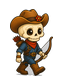
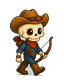
Clear opaque bow-triangle fill on skeleton sprites.
Cutout left enclosed gray plates between bow limbs and string; clear those gaps on base frames, re-tint crystal variants, and bump content to 1.8.5.

Changed region(s): [[0.6562, 0.525, 0.7812, 0.65], [0.5312, 0.675, 0.625, 0.75]]

diff --git a/tools/fix_cave_visuals.py b/tools/fix_cave_visuals.py
@@ -1,5 +1,5 @@
 #!/usr/bin/env python3
-"""Fix cave biome cutouts, strip slicing, ladder matte, and procedural fillers."""
+"""Fix cave biome cutouts, strip slicing, ladder matte, bow gaps, and procedural fillers."""
 
 from __future__ import annotations
 
@@ -501,6 +501,207 @@ def fix_bats() -> None:
         print(f"cave_bat_{i}: clear%={_clear_pct(framed):.1f}")
 
 
+
+def _is_bow_fill_candidate(r: int, g: int, b: int, a: int) -> bool:
+    """Light gray/white or crystal-lavender opaque fill between bow and string."""
+    if a < 180:
+        return False
+    lo, hi = min(r, g, b), max(r, g, b)
+    # Gray / near-white plate left by cutout inside the bow triangle.
+    if lo >= 165 and (hi - lo) <= 45:
+        return True
+    # Magenta-tinted crystal fill (g dropped by tint; not warm ivory bone).
+    if (
+        r >= 150
+        and b >= 150
+        and 100 <= g <= 180
+        and (r - g) >= 25
+        and (b - g) >= 25
+        and (hi - lo) <= 95
+    ):
+        return True
+    return False
+
+
+def _is_bow_wood_pixel(r: int, g: int, b: int, a: int) -> bool:
+    if a < 100:
+        return False
+    return r > g and r > b and 80 <= r <= 180 and 40 <= g <= 120
+
+
+def _is_bowstring_pixel(r: int, g: int, b: int, a: int) -> bool:
+    if a < 100:
+        return False
+    return min(r, g, b) >= 200 and (max(r, g, b) - min(r, g, b)) <= 35
+
+
+def _region_near_bow(px, w: int, h: int, cells: list[tuple[int, int]], *, radius: int = 3) -> bool:
+    for x, y in cells:
+        for dy in range(-radius, radius + 1):
+            for dx in range(-radius, radius + 1):
+                nx, ny = x + dx, y + dy
+                if not (0 <= nx < w and 0 <= ny < h):
+                    continue
+                r, g, b, a = px[nx, ny]
+                if _is_bow_wood_pixel(r, g, b, a) or _is_bowstring_pixel(r, g, b, a):
+                    return True
+    return False
+
+
+def count_skeleton_bow_fill_candidates(
+    im: Image.Image,
+    *,
+    right_half_only: bool = True,
+    bow_band_only: bool = False,
+) -> int:
+    """Count opaque light fill candidates (optionally right half / mid-body bow band)."""
+    rgba = im.convert("RGBA")
+    px = rgba.load()
+    w, h = rgba.size
+    x0 = w // 2 if right_half_only else 0
+    y0, y1 = (int(h * 0.30), int(h * 0.72)) if bow_band_only else (0, h)
+    n = 0
+    for y in range(y0, y1):
+        for x in range(x0, w):
+            if _is_bow_fill_candidate(*px[x, y]):
+                n += 1
+    return n
+
+
+def clear_skeleton_bow_gaps(im: Image.Image) -> tuple[Image.Image, int]:
+    """Clear small enclosed light fill between wooden bow limbs and bowstring.
+
+    Cutout leaves gray/white (or crystal-lavender) plates that are not
+    border-connected. Only clears compact regions next to bow wood/string,
+    never skull/eye interiors or foot bone blobs.
+    Returns (image, cleared_pixel_count).
+    """
+    out = im.convert("RGBA").copy()
+    px = out.load()
+    w, h = out.size
+    visited: set[tuple[int, int]] = set()
+    to_clear: list[tuple[int, int]] = []
+    cleared_bbox: list[int] | None = None  # x0,y0,x1,y1
+
+    for y in range(h):
+        for x in range(w):
+            if (x, y) in visited:
+                continue
+            if not _is_bow_fill_candidate(*px[x, y]):
+                continue
+            q = deque([(x, y)])
+            visited.add((x, y))
+            cells: list[tuple[int, int]] = []
+            while q:
+                cx, cy = q.popleft()
+                cells.append((cx, cy))
+                for nx, ny in ((cx + 1, cy), (cx - 1, cy), (cx, cy + 1), (cx, cy - 1)):
+                    if not (0 <= nx < w and 0 <= ny < h) or (nx, ny) in visited:
+                        continue
+                    if _is_bow_fill_candidate(*px[nx, ny]):
+                        visited.add((nx, ny))
+                        q.append((nx, ny))
+            area = len(cells)
+            if area < 2 or area > 200:
+                continue
+            cx = sum(p[0] for p in cells) / area
+            cy = sum(p[1] for p in cells) / area
+            # Head / eye sockets (upper-left).
+            if cx < w * 0.55 and cy < h * 0.28:
+                continue
+            # Foot / ground bone blobs.
+            if cy > h * 0.72:
+                continue
+            # Bow sits on the facing-right side; require that or wood contact.
+            rightish = cx >= w * 0.45
+            near_bow = _region_near_bow(px, w, h, cells)
+            if not near_bow:
+                continue
+            if not rightish:
+                continue
+            # Tiny speckles (2..7): only in the mid-body bow band.
+            if area < 8 and not (h * 0.35 <= cy <= h * 0.70):
+                continue
+            # Reject cream bone patches that only graze wood: average should be
+            # low-chroma gray/lavender, not warm ivory (high r+g, lower b chroma).
+            ar = sum(px[p][0] for p in cells) / area
+            ag = sum(px[p][1] for p in cells) / area
+            ab = sum(px[p][2] for p in cells) / area
+            # Warm ivory highlight (bone glint) — skip unless near-neutral gray.
+            if ab + 25 < ar and ab + 25 < ag and (max(ar, ag, ab) - min(ar, ag, ab)) > 35:
+                continue
+            to_clear.extend(cells)
+            xs = [p[0] for p in cells]
+            ys = [p[1] for p in cells]
+            box = [min(xs), min(ys), max(xs) + 1, max(ys) + 1]
+            if cleared_bbox is None:
+                cleared_bbox = box
+            else:
+                cleared_bbox[0] = min(cleared_bbox[0], box[0])
+                cleared_bbox[1] = min(cleared_bbox[1], box[1])
+                cleared_bbox[2] = max(cleared_bbox[2], box[2])
+                cleared_bbox[3] = max(cleared_bbox[3], box[3])
+
+    for x, y in to_clear:
+        r, g, b, _a = px[x, y]
+        px[x, y] = (r, g, b, 0)
+
+    # Near-white / gray fringe speckles inside/near cleared bbox (touch a hole).
+    fringe = 0
+    if cleared_bbox is not None:
+        x0, y0, x1, y1 = cleared_bbox
+        x0, y0 = max(0, x0 - 2), max(0, y0 - 2)
+        x1, y1 = min(w, x1 + 2), min(h, y1 + 2)
+        for _pass in range(2):
+            for y in range(y0, y1):
+                for x in range(x0, x1):
+                    r, g, b, a = px[x, y]
+                    if a < 40:
+                        continue
+                    if not _is_bow_fill_candidate(r, g, b, a) and not (
+                        min(r, g, b) >= 190 and (max(r, g, b) - min(r, g, b)) <= 40
+                    ):
+                        continue
+                    touch_clear = False
+                    for nx, ny in ((x + 1, y), (x - 1, y), (x, y + 1), (x, y - 1)):
+                        if 0 <= nx < w and 0 <= ny < h and px[nx, ny][3] < 8:
+                            touch_clear = True
+                            break
+                    if touch_clear:
+                        px[x, y] = (r, g, b, 0)
+                        fringe += 1
+
+    return out, len(to_clear) + fringe
+
+
+def fix_skeleton_bow_gaps() -> None:
+    """Clear bow-triangle fill on base skeletons, then re-tint crystal set."""
+    bases = [
+        "skeleton.png",
+        "skeleton_walk_0.png",
+        "skeleton_walk_1.png",
+        "skeleton_tied.png",
+    ]
+    print("\n=== skeleton bow gap clear ===")
+    for name in bases:
+        path = OUT / name
+        if not path.is_file():
+            print(f"{name}: missing, skip")
+            continue
+        im = Image.open(path).convert("RGBA")
+        before = count_skeleton_bow_fill_candidates(im, right_half_only=True, bow_band_only=True)
+        fixed, cleared = clear_skeleton_bow_gaps(im)
+        after = count_skeleton_bow_fill_candidates(fixed, right_half_only=True, bow_band_only=True)
+        _save(fixed, path)
+        print(f"{name}: right_half_fill before={before} cleared={cleared} after={after}")
+
+        crystal_name = name.replace("skeleton", "skeleton_crystal", 1)
+        tinted = _magenta_tint(fixed)
+        cpath = OUT / crystal_name
+        _save(tinted, cpath)
+        print(f"{crystal_name}: re-tint from fixed base (cleared={cleared})")
+
+
 def fix_skeleton_walk() -> None:
     src = SOURCE / "cave_skeleton_walk_strip_concept.png"
     cut = cutout(src, level=185)
@@ -516,11 +717,12 @@ def fix_skeleton_walk() -> None:
         raise RuntimeError(f"skeleton walk: expected 2 figures, got {len(figs)}")
     for i, fig in enumerate(figs[:2]):
         framed = _feet(fig, (64, 80), target_h=67, baseline=76)
+        framed, bow_cleared = clear_skeleton_bow_gaps(framed)
         path = OUT / f"skeleton_walk_{i}.png"
         _save(framed, path)
         print(
             f"skeleton_walk_{i}: clear%={_clear_pct(framed):.1f} "
-            f"content_h={_content_height(framed)}"
+            f"content_h={_content_height(framed)} bow_gap_cleared={bow_cleared}"
         )
         tinted = _magenta_tint(framed)
         cpath = OUT / f"skeleton_crystal_walk_{i}.png"
@@ -779,6 +981,7 @@ def verify() -> None:
 def main() -> int:
     fix_bats()
     fix_skeleton_walk()
+    fix_skeleton_bow_gaps()
     fix_ladder()
     fix_camp_and_impact()
     fix_floors()

diff --git a/tools/build_cave_art.py b/tools/build_cave_art.py
@@ -10,7 +10,8 @@ from pathlib import Path
 ROOT = Path(__file__).resolve().parents[1]
 sys.path.insert(0, str(ROOT))
 
-from tools.art_pipeline import cutout, frame_sprite, slice_strip  # noqa: E402
+from tools.art_pipeline import cutout, frame_sprite, slice_strip
+from tools.fix_cave_visuals import clear_skeleton_bow_gaps, _magenta_tint  # noqa: E402
 from collections import deque
 
 from PIL import Image
@@ -213,7 +214,7 @@ def main() -> int:
         out.save(dest)
         print(f"wrote {dest.relative_to(ROOT)}")
 
-    # Crystal bounty skeleton: soft magenta tint of base frames.
+    # Clear opaque bow-triangle fill, then crystal bounty = magenta tint of bases.
     from PIL import Image
 
     for base in ["skeleton.png", "skeleton_walk_0.png", "skeleton_walk_1.png", "skeleton_tied.png"]:
@@ -221,21 +222,13 @@ def main() -> int:
         if not src.is_file():
             continue
         im = Image.open(src).convert("RGBA")
-        px = im.load()
-        w, h = im.size
-        for y in range(h):
-            for x in range(w):
-                r, g, b, a = px[x, y]
-                if a < 8:
-                    continue
-                px[x, y] = (
-                    min(255, int(r * 0.85 + 40)),
-                    min(255, int(g * 0.7)),
-                    min(255, int(b * 0.95 + 30)),
-                    a,
-                )
-        dest = OUT_DIR / base.replace("skeleton", "skeleton_crystal")
-        im.save(dest)
+        im, cleared = clear_skeleton_bow_gaps(im)
+        im.save(src)
+        if cleared:
+            print(f"cleared {cleared} bow-gap pixels in {src.relative_to(ROOT)}")
+        tinted = _magenta_tint(im)
+        dest = OUT_DIR / base.replace("skeleton", "skeleton_crystal", 1)
+        tinted.save(dest)
         print(f"wrote {dest.relative_to(ROOT)}")
 
     return 0

diff --git a/README.md b/README.md
@@ -2,7 +2,7 @@
 
 Child-friendly 2D western cowboy platformer (Godot **4.4**). Aimed at kids ~6: forgiving jumps, nonviolent lasso. **Classic mode** has no lives or game over; **Advanced Mode** (chosen in **Settings** before starting or continuing a slot) adds a three-life limit, badge milestones, and a game-over return to the start screen. Pick **Cowboy** or **Cowgirl** in Settings — the choice applies across all save slots. **German is the default language**; English is fully supported.
 
-**Content version:** `1.8.4` (see `content_version.txt`). Launchers reimport when this stamp changes.
+**Content version:** `1.8.5` (see `content_version.txt`). Launchers reimport when this stamp changes.
 
 This README is the **binding source of truth** for gameplay, level design, art, i18n, and audio. Agents and contributors must follow it (see [Agent / contributor rules](#agent--contributor-rules)).
 
